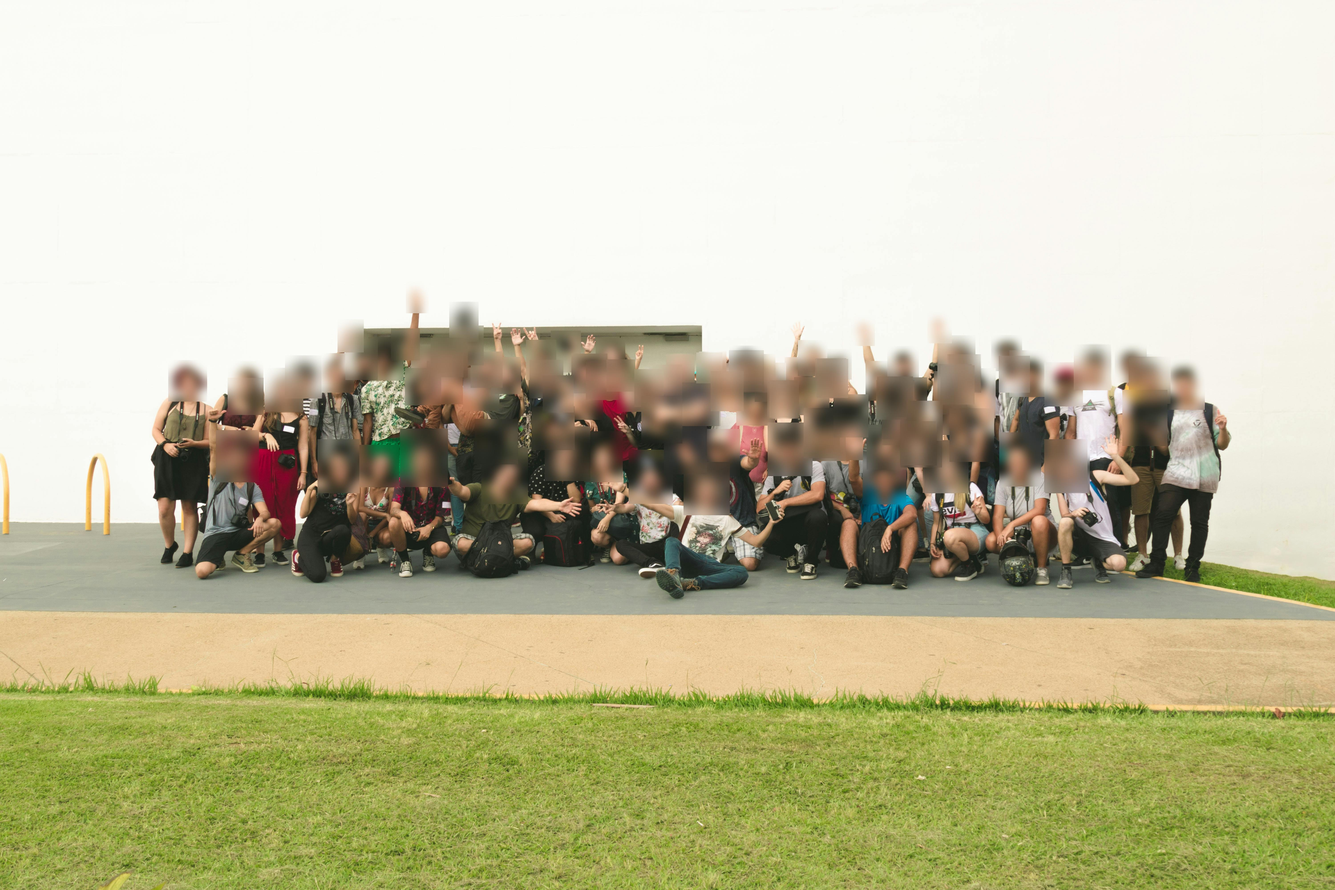
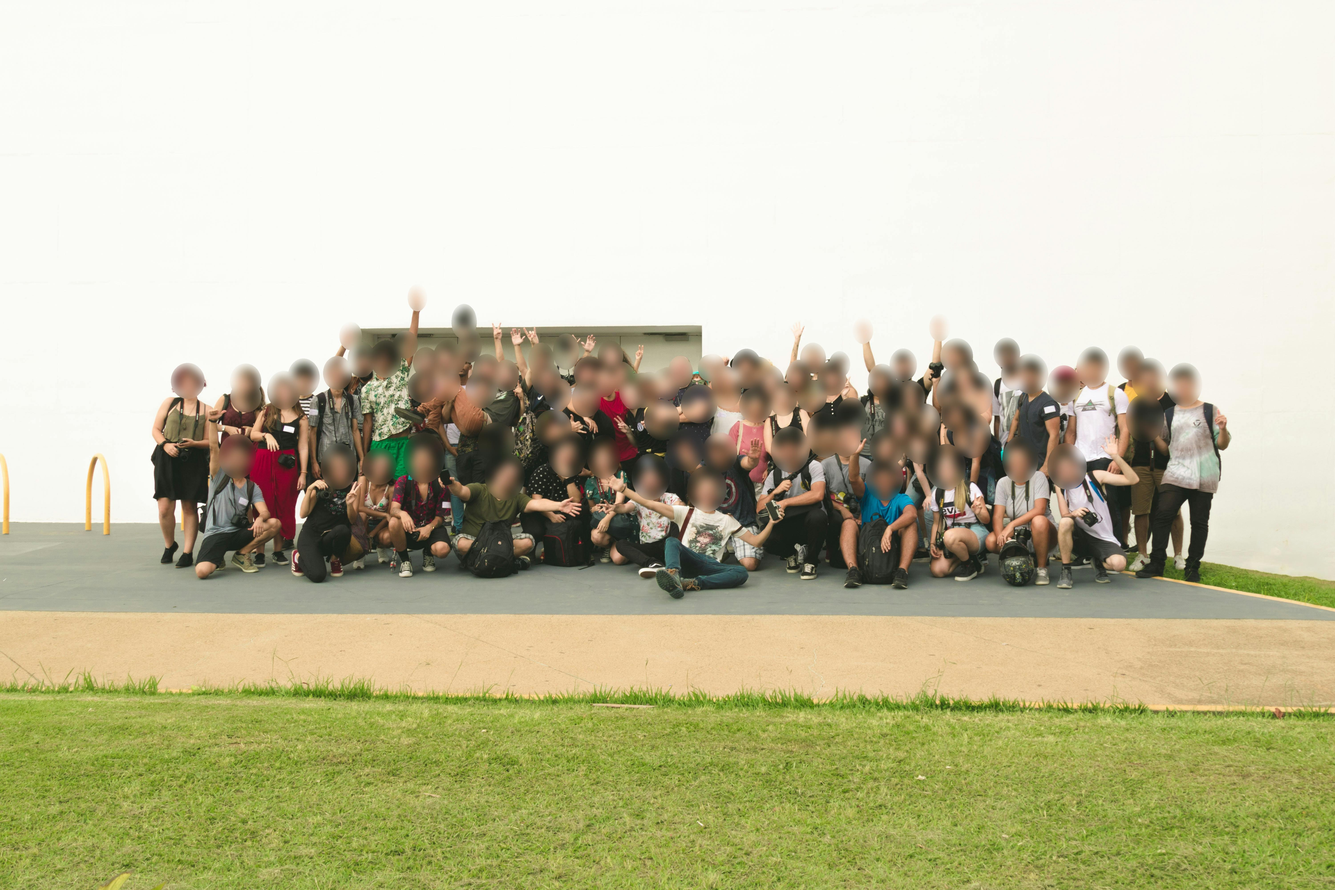
use elliptical blurring instead of rectangle blurring mask

diff --git a/head_detection.py b/head_detection.py
@@ -125,9 +125,10 @@ class HeadDetector:
             draw.text((b[0], b[1]), text=str(int(l)), fill='blue')  # Convert label to int
         return image
 
+
     def blur_heads(self, image, boxes, padding_factor=0.1, blur_factor=15):
         """
-        Blur the head regions in the image with added padding around each bounding box.
+        Blur the head regions in the image using elliptical regions, handling overlaps correctly.
 
         Args:
             image (PIL.Image): The input image.
@@ -136,8 +137,14 @@ class HeadDetector:
             blur_factor (float): Radius for Gaussian blur (default 15).
 
         Returns:
-            PIL.Image: The image with blurred head regions including padding.
+            PIL.Image: The image with blurred head regions using ellipses.
         """
+        # Create a copy of the image and a full-size mask
+        result_image = image.copy()
+        mask = Image.new('L', image.size, 0)  # Black mask (no blur by default)
+        draw = ImageDraw.Draw(mask)
+
+        # Step 1: Draw all ellipses onto the mask
         for box in boxes:
             x1, y1, x2, y2 = box
 
@@ -147,6 +154,7 @@ class HeadDetector:
             pad_width = padding_factor * width
             pad_height = padding_factor * height
 
+            # Calculate new coordinates with padding
             x1_new = max(0, x1 - pad_width)
             y1_new = max(0, y1 - pad_height)
             x2_new = min(image.width, x2 + pad_width)
@@ -161,20 +169,19 @@ class HeadDetector:
             if left >= right or upper >= lower:
                 continue
 
-            # Crop the expanded region
-            region = image.crop((left, upper, right, lower))
+            draw.ellipse([left, upper, right, lower], fill=255)  # White where blur is applied
 
-            # Apply Gaussian blur
-            blurred_region = region.filter(ImageFilter.GaussianBlur(radius=blur_factor))
+        # Step 2: Apply blur to the entire image
+        blurred_image = image.filter(ImageFilter.GaussianBlur(radius=blur_factor))
 
-            # Paste the blurred region back
-            image.paste(blurred_region, (left, upper))
+        # Step 3: Composite the blurred and original images using the mask
+        result_image = Image.composite(blurred_image, image, mask)
 
-        return image
-
+        return result_image
+    
 if __name__ == '__main__':
     detector = HeadDetector()
-    image = Image.open("examples/people3.jpg").convert('RGB')
-    boxes, scores = detector.detect(image, confidence_threshold=0.2)
-    blurred_image = detector.blur_heads(image, boxes, padding_factor=0.1, blur_factor=20)
+    image = Image.open("examples/people4.jpg").convert('RGB')
+    boxes, scores = detector.detect(image, confidence_threshold=0.1)
+    blurred_image = detector.blur_heads(image, boxes, padding_factor=0.075, blur_factor=20)
     blurred_image.save("output_blurred.jpg")
